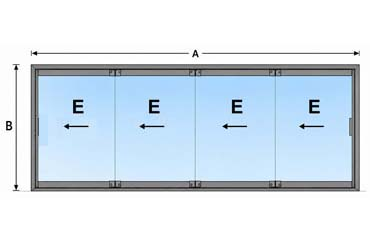
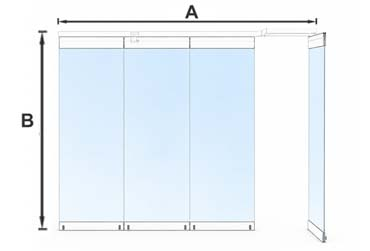
Ucitanje vrste roletne u formi

diff --git a/app/page.tsx b/app/page.tsx
@@ -7338,6 +7338,9 @@ onChange={(e) => setSelectedProfilId(e.target.value)}
       "Širina profila krilo",
       "Širina profila T prečka",
       "Zazor za staklo",
+      "Zazor između krila/stakla",
+      "Zazor između krila i vođice",
+      "Čepovi krila",
       "Preklop kod krila",
       "Preklop kod šloge",
       "Čepovi šloge",